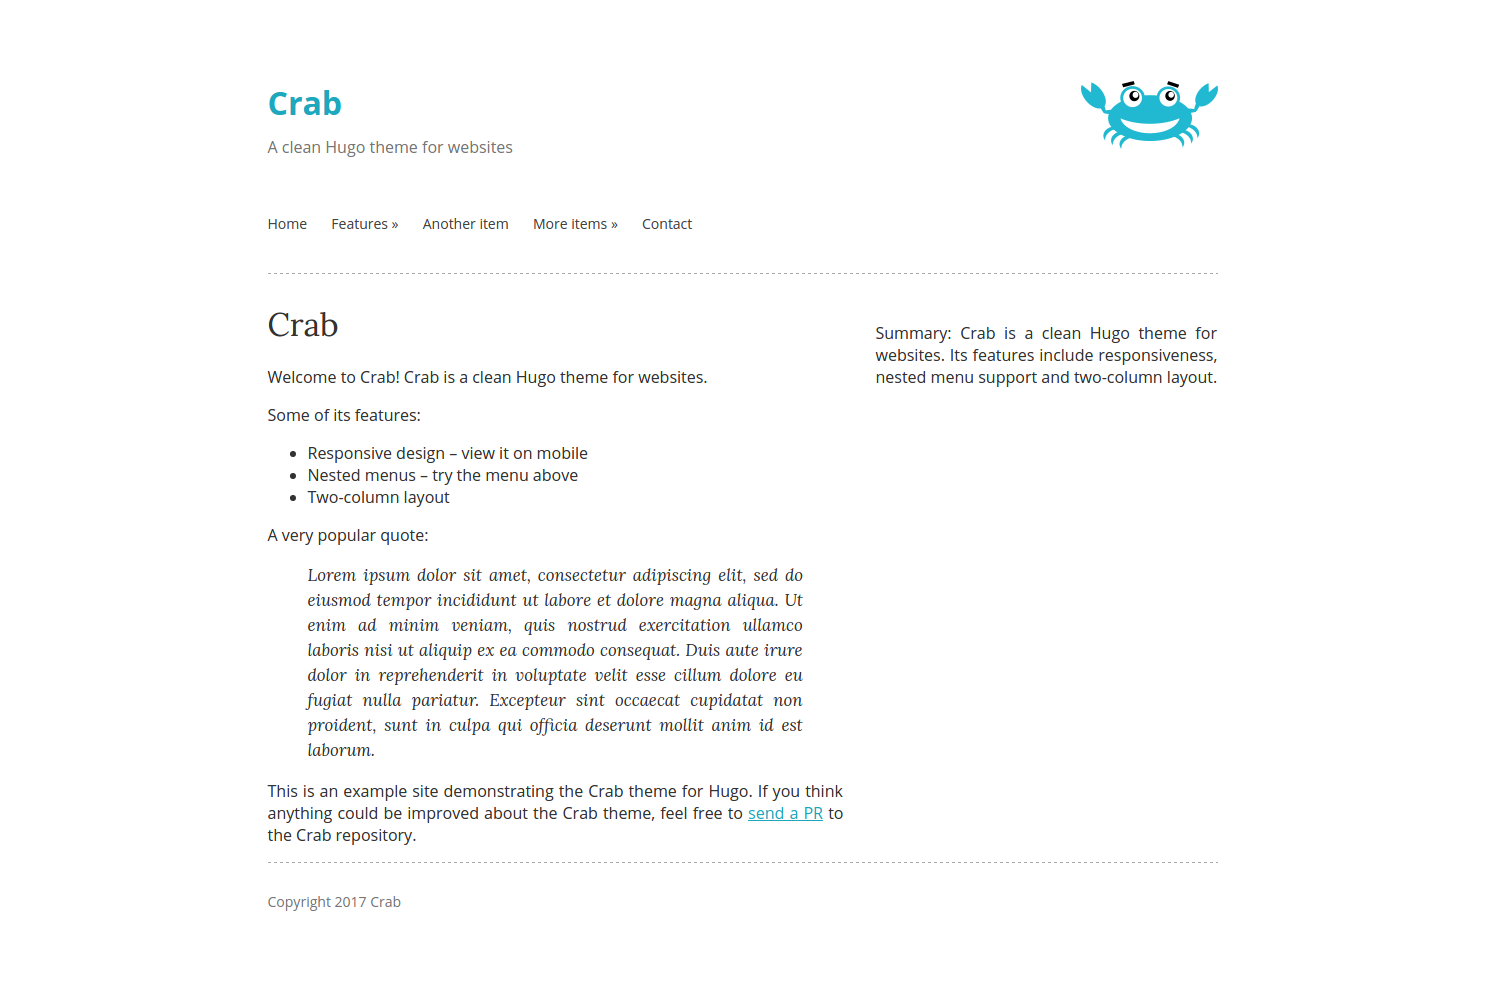
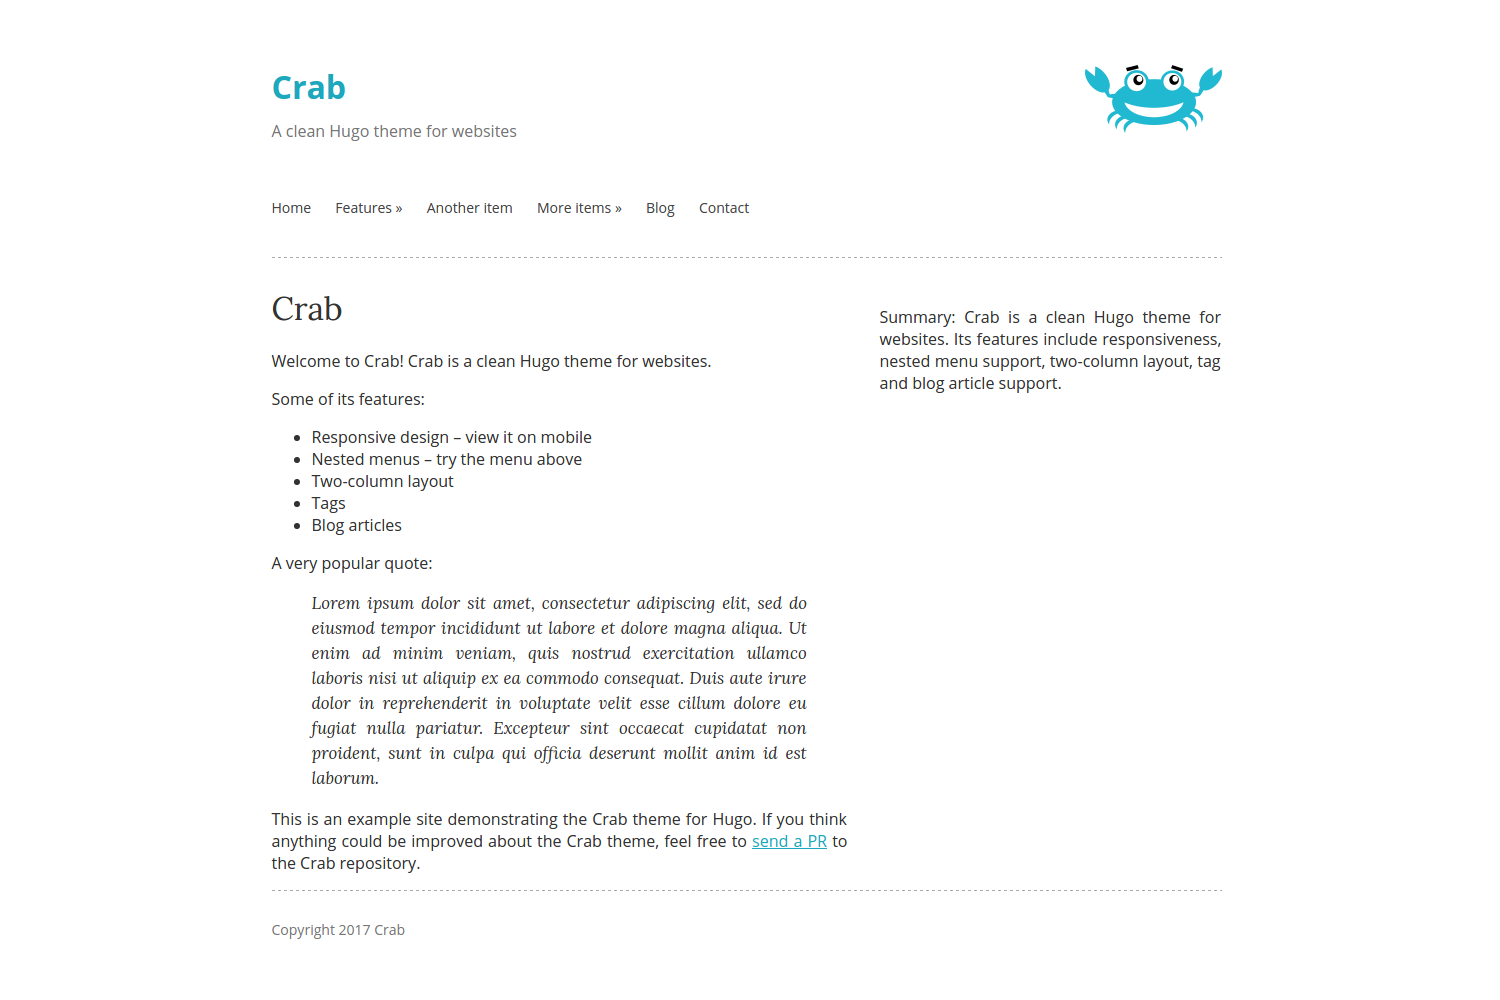
tag and blog features

diff --git a/layouts/partials/pagination.html b/layouts/partials/pagination.html
@@ -1,0 +1,29 @@
+{{ $pag := .Paginator }}
+{{ if gt $pag.TotalPages 1 }}
+ <ul class="pagination">
+    {{ with $pag.First }}
+    <li
+    {{ if not $pag.HasPrev }}class="disabled"{{ end }}>
+	<a href="{{ .URL }}" aria-label="First"><span aria-hidden="true">&laquo;&laquo;</span></a>
+    </li>
+    {{ end }}
+    <li
+    {{ if not $pag.HasPrev }}class="disabled"{{ end }}>
+    <a href="{{ if $pag.HasPrev }}{{ $pag.Prev.URL }}{{ end }}" aria-label="Previous"><span aria-hidden="true">&laquo;</span></a>
+    </li>
+    {{ range $pag.Pagers }}
+    <li
+    {{ if eq . $pag }}class="active"{{ end }}><a href="{{ .URL }}">{{ .PageNumber }}</a></li>
+    {{ end }}
+    <li
+    {{ if not $pag.HasNext }}class="disabled"{{ end }}>
+    <a href="{{ if $pag.HasNext }}{{ $pag.Next.URL }}{{ end }}" aria-label="Next"><span aria-hidden="true">&raquo;</span></a>
+    </li>
+    {{ with $pag.Last }}
+    <li
+    {{ if not $pag.HasNext }}class="disabled"{{ end }}>
+	<a href="{{ .URL }}" aria-label="Last"><span aria-hidden="true">&raquo;&raquo;</span></a>
+    </li>
+    {{ end }}
+</ul>
+{{ end }}

diff --git a/static/css/crab.css b/static/css/crab.css
@@ -128,6 +128,15 @@ h6 {
   font-weight: normal;
 }
 
+#article .timestamp,
+#article .tags,
+#article .tags a:link,
+#article .tags a:active,
+#article .tags a:visited,
+#article .tags a:hover {
+  color: #555;
+}
+
 hr {
   border-bottom: 0;
   border-left: 0;
@@ -153,6 +162,27 @@ img.left {
   clear: both;
   padding-top: 2em;
   font-size: 90%;
+}
+
+ul.pagination {
+  padding: 0;
+  list-style-type: none;
+}
+
+.pagination li {
+  display: inline-block;
+}
+
+.pagination .active a:link,
+.pagination .active a:active,
+.pagination .active a:visited,
+.pagination .active a:hover,
+.pagination .disabled a:link,
+.pagination .disabled a:active,
+.pagination .disabled a:visited,
+.pagination .disabled a:hover {
+  color: #555;
+  text-decoration: none;
 }
 
 @media (min-width: 768px) {
@@ -223,4 +253,3 @@ img.left {
     width: 342px;
   }
 }
-

diff --git a/layouts/_default/list.html b/layouts/_default/list.html
@@ -1,0 +1,22 @@
+{{ partial "header.html" . }}
+
+{{ if hasPrefix .URL "/blog/" }}
+
+  {{ range sort .Paginator.Pages }}
+    <h2><a href="{{ .Permalink }}">{{ .Title }}</a></h2>
+    <p class="timestamp">{{ .Date.Format "January 2, 2006" }}</p>
+    <div class="content">
+    {{ .Summary | plainify | safeHTML }}
+    {{ if .Truncated }}
+      ... <a href="{{ .Permalink }}">Read more &hellip;</a>
+    {{ end }}
+    </div>
+    {{ if .Params.tags }}
+      {{ partial "tags" .Params.tags }}
+    {{ end }}
+  {{ end }}
+  {{ partial "pagination.html" . }}
+
+{{ end }}
+
+{{ partial "footer.html" . }}

diff --git a/layouts/_default/single.html b/layouts/_default/single.html
@@ -1,3 +1,9 @@
 {{ partial "header.html" . }}
+{{ if hasPrefix .URL "/blog/" }}
+<p class="timestamp">{{ .Date.Format "January 2, 2006" }}</p>
+{{ end }}
 {{ .Content }}
+{{ if .Params.tags }}
+  {{ partial "tags" .Params.tags }}
+{{ end }}
 {{ partial "footer.html" . }}

diff --git a/layouts/partials/tags.html b/layouts/partials/tags.html
@@ -1,0 +1,5 @@
+<p class="tags">
+  Tags: {{ range . }}
+  <a href="{{ "/tags/" | absURL }}{{ . | urlize | lower }}">{{ . }}</a>
+  {{ end }}
+</p>

diff --git a/exampleSite/content/blog/welcome-blog.md b/exampleSite/content/blog/welcome-blog.md
@@ -1,0 +1,19 @@
++++
+date = "2017-03-27T21:30:00+01:00"
+draft = false
+title = "Welcome to my blog"
+
++++
+
+This page is intended to give you a feeling of what a blog post looks
+like. Crab supports both fixed (static) pages as well as blog posts.
+
+In order to make blog pages work correctly, you need proper permalinks
+settings in your site's `config.toml`.
+
+Hugo will then treat all files in the `blog` directory (for example)
+like blog posts.
+
+Have a look at the `config.toml` provided with this example site, as
+well as [the page about Permalinks from the Hugo
+docs](https://gohugo.io/extras/permalinks/).

diff --git a/exampleSite/content/home.md b/exampleSite/content/home.md
@@ -8,7 +8,8 @@ draft = false
 {{% summary %}}
 Summary:
 Crab is a clean Hugo theme for websites. Its features include
-responsiveness, nested menu support and two-column layout.
+responsiveness, nested menu support, two-column layout, tag and blog
+article support.
 {{% /summary %}}
 
 Welcome to Crab! Crab is a clean Hugo theme for websites.
@@ -18,6 +19,8 @@ Some of its features:
 - Responsive design -- view it on mobile
 - Nested menus -- try the menu above
 - Two-column layout
+- Tags
+- Blog articles
 
 A very popular quote:
 

diff --git a/exampleSite/content/features/tags.md b/exampleSite/content/features/tags.md
@@ -1,0 +1,14 @@
++++
+date = "2017-03-19T13:21:00+01:00"
+title = "Tags"
+draft = false
+tags = ["this", "page", "has", "some", "tags"]
+
++++
+
+Crab also supports tags. This page has some tags, as you can see
+below, although tags are probably more common with blog posts.
+
+If you click on a tag, you'll be redirected to a page that shows all
+pages and posts with that tag. (For some tags, there is only this one
+page.)

diff --git a/exampleSite/content/blog/more-blog.md b/exampleSite/content/blog/more-blog.md
@@ -1,0 +1,11 @@
++++
+date = "2017-02-27T21:30:00+01:00"
+draft = false
+title = "More blogging"
+tags = ["this", "post", "also", "has", "some", "tags"]
+
++++
+
+This is yet another blog post to demonstrate the blog feature. It's
+from a different month than other posts, to show you how the archive
+feature works.

diff --git a/README.md b/README.md
@@ -10,6 +10,8 @@ site generator.
 - responsive
 - nested menus
 - two-column
+- tag support
+- blog articles
 
 ## Preview
 
